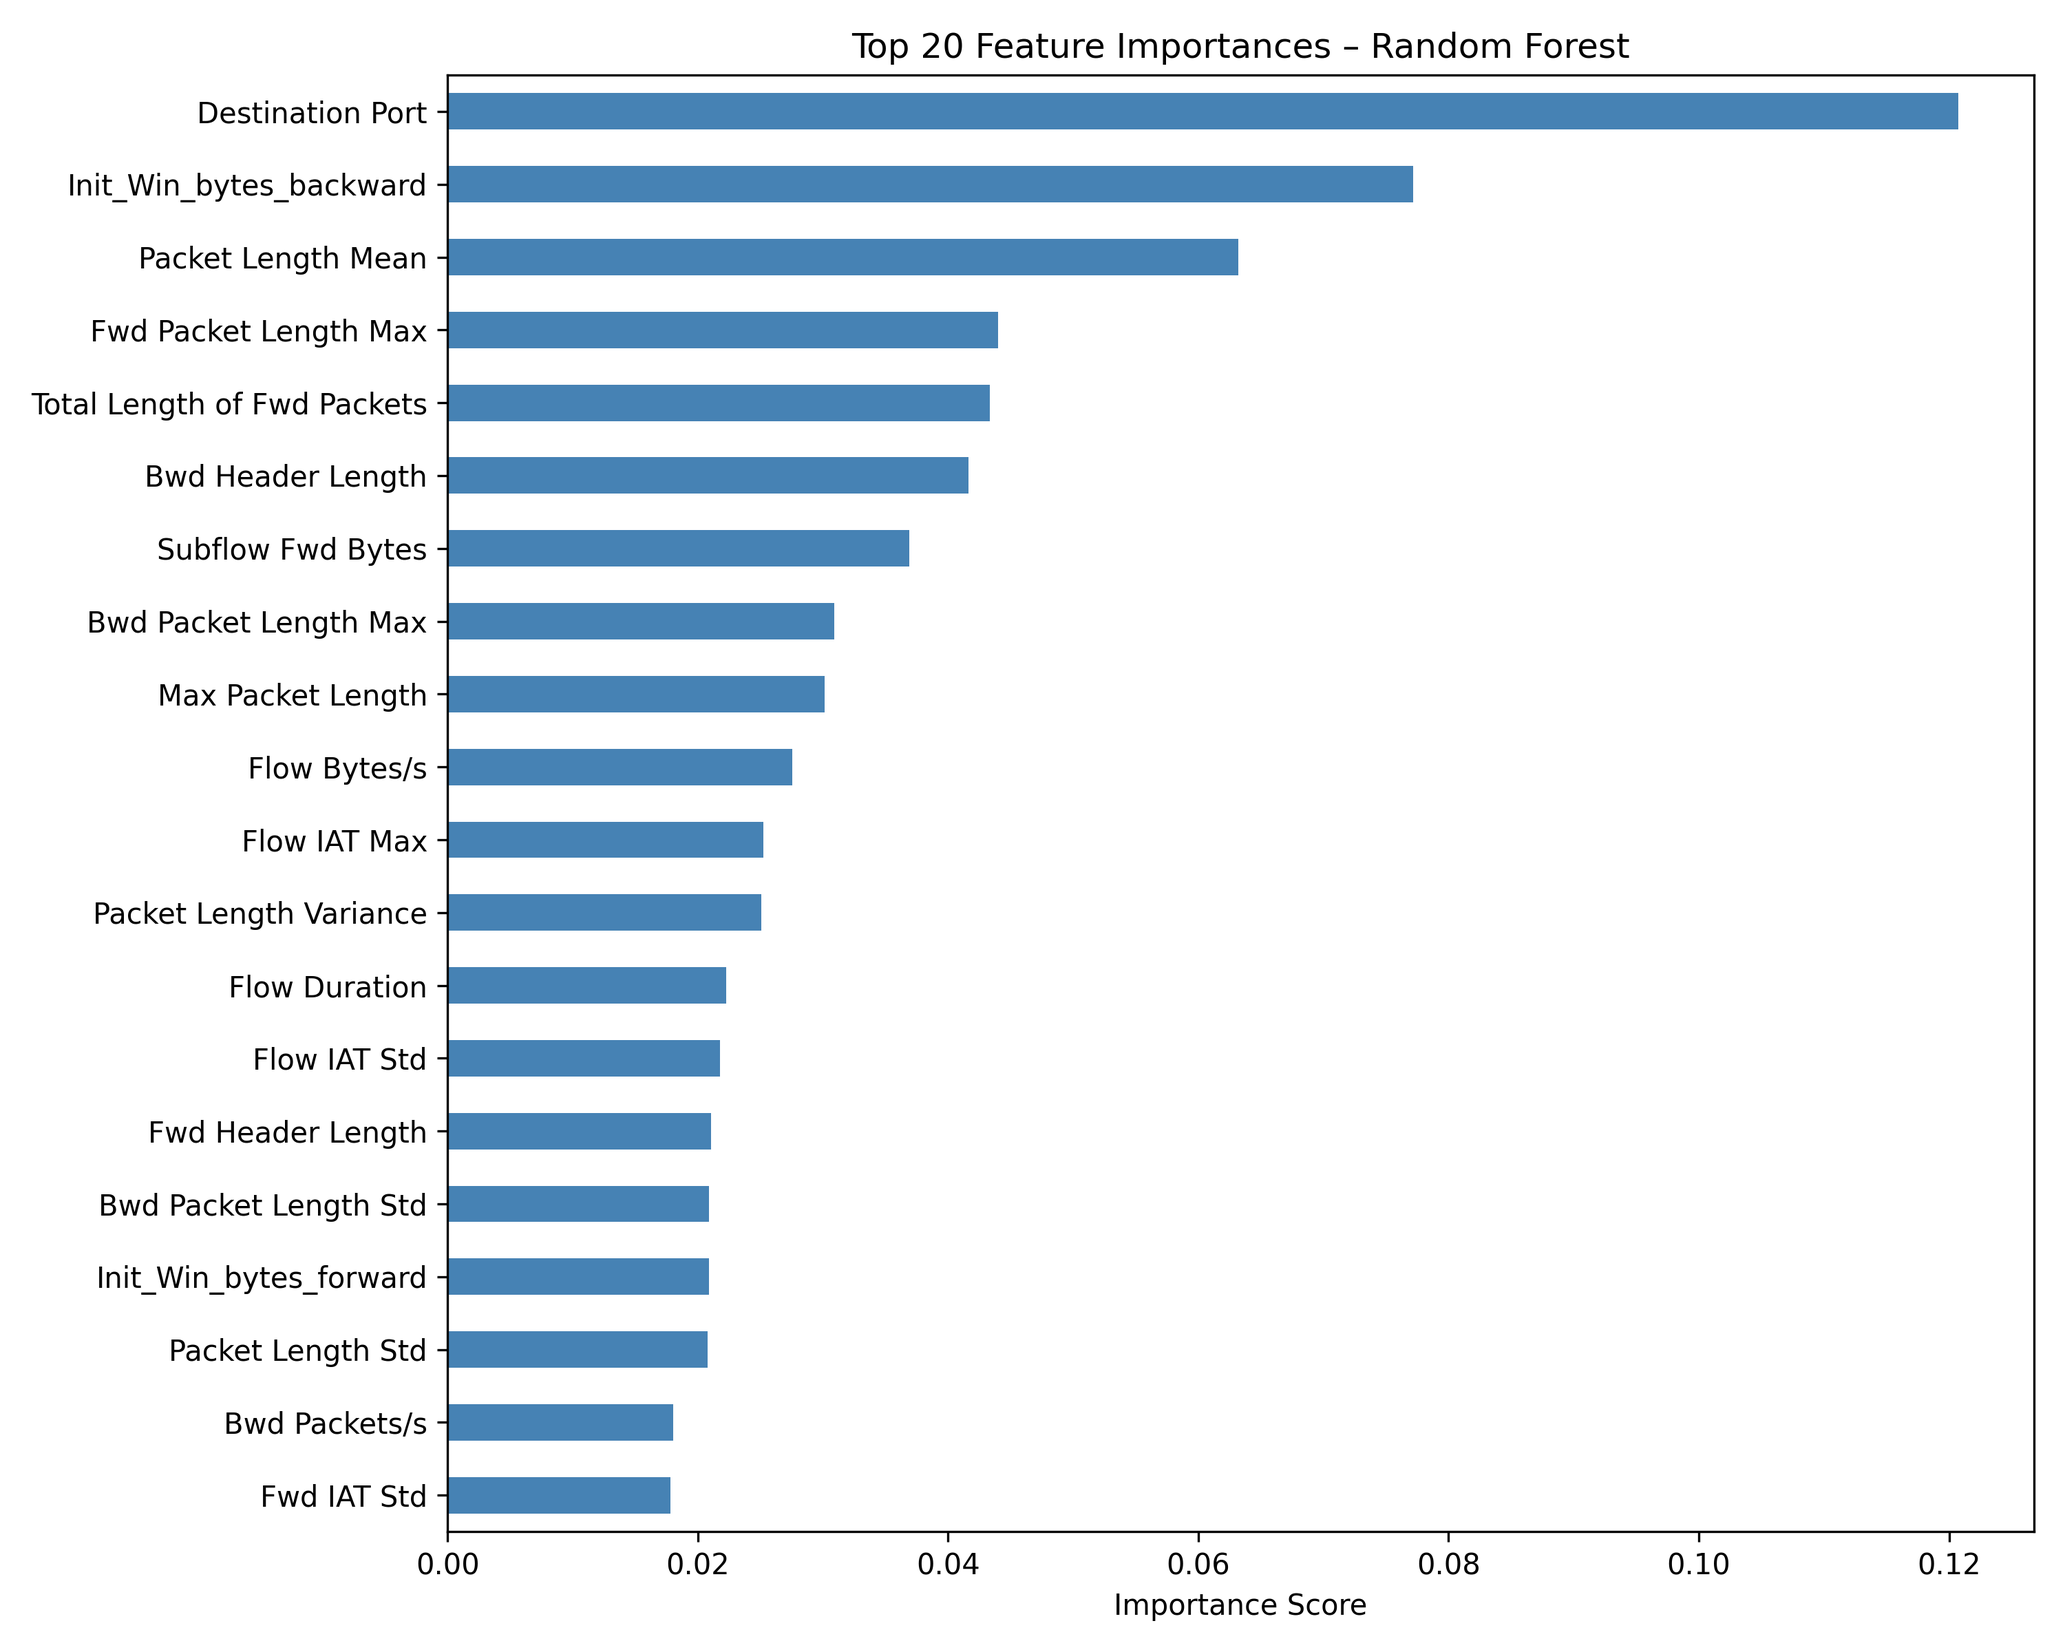
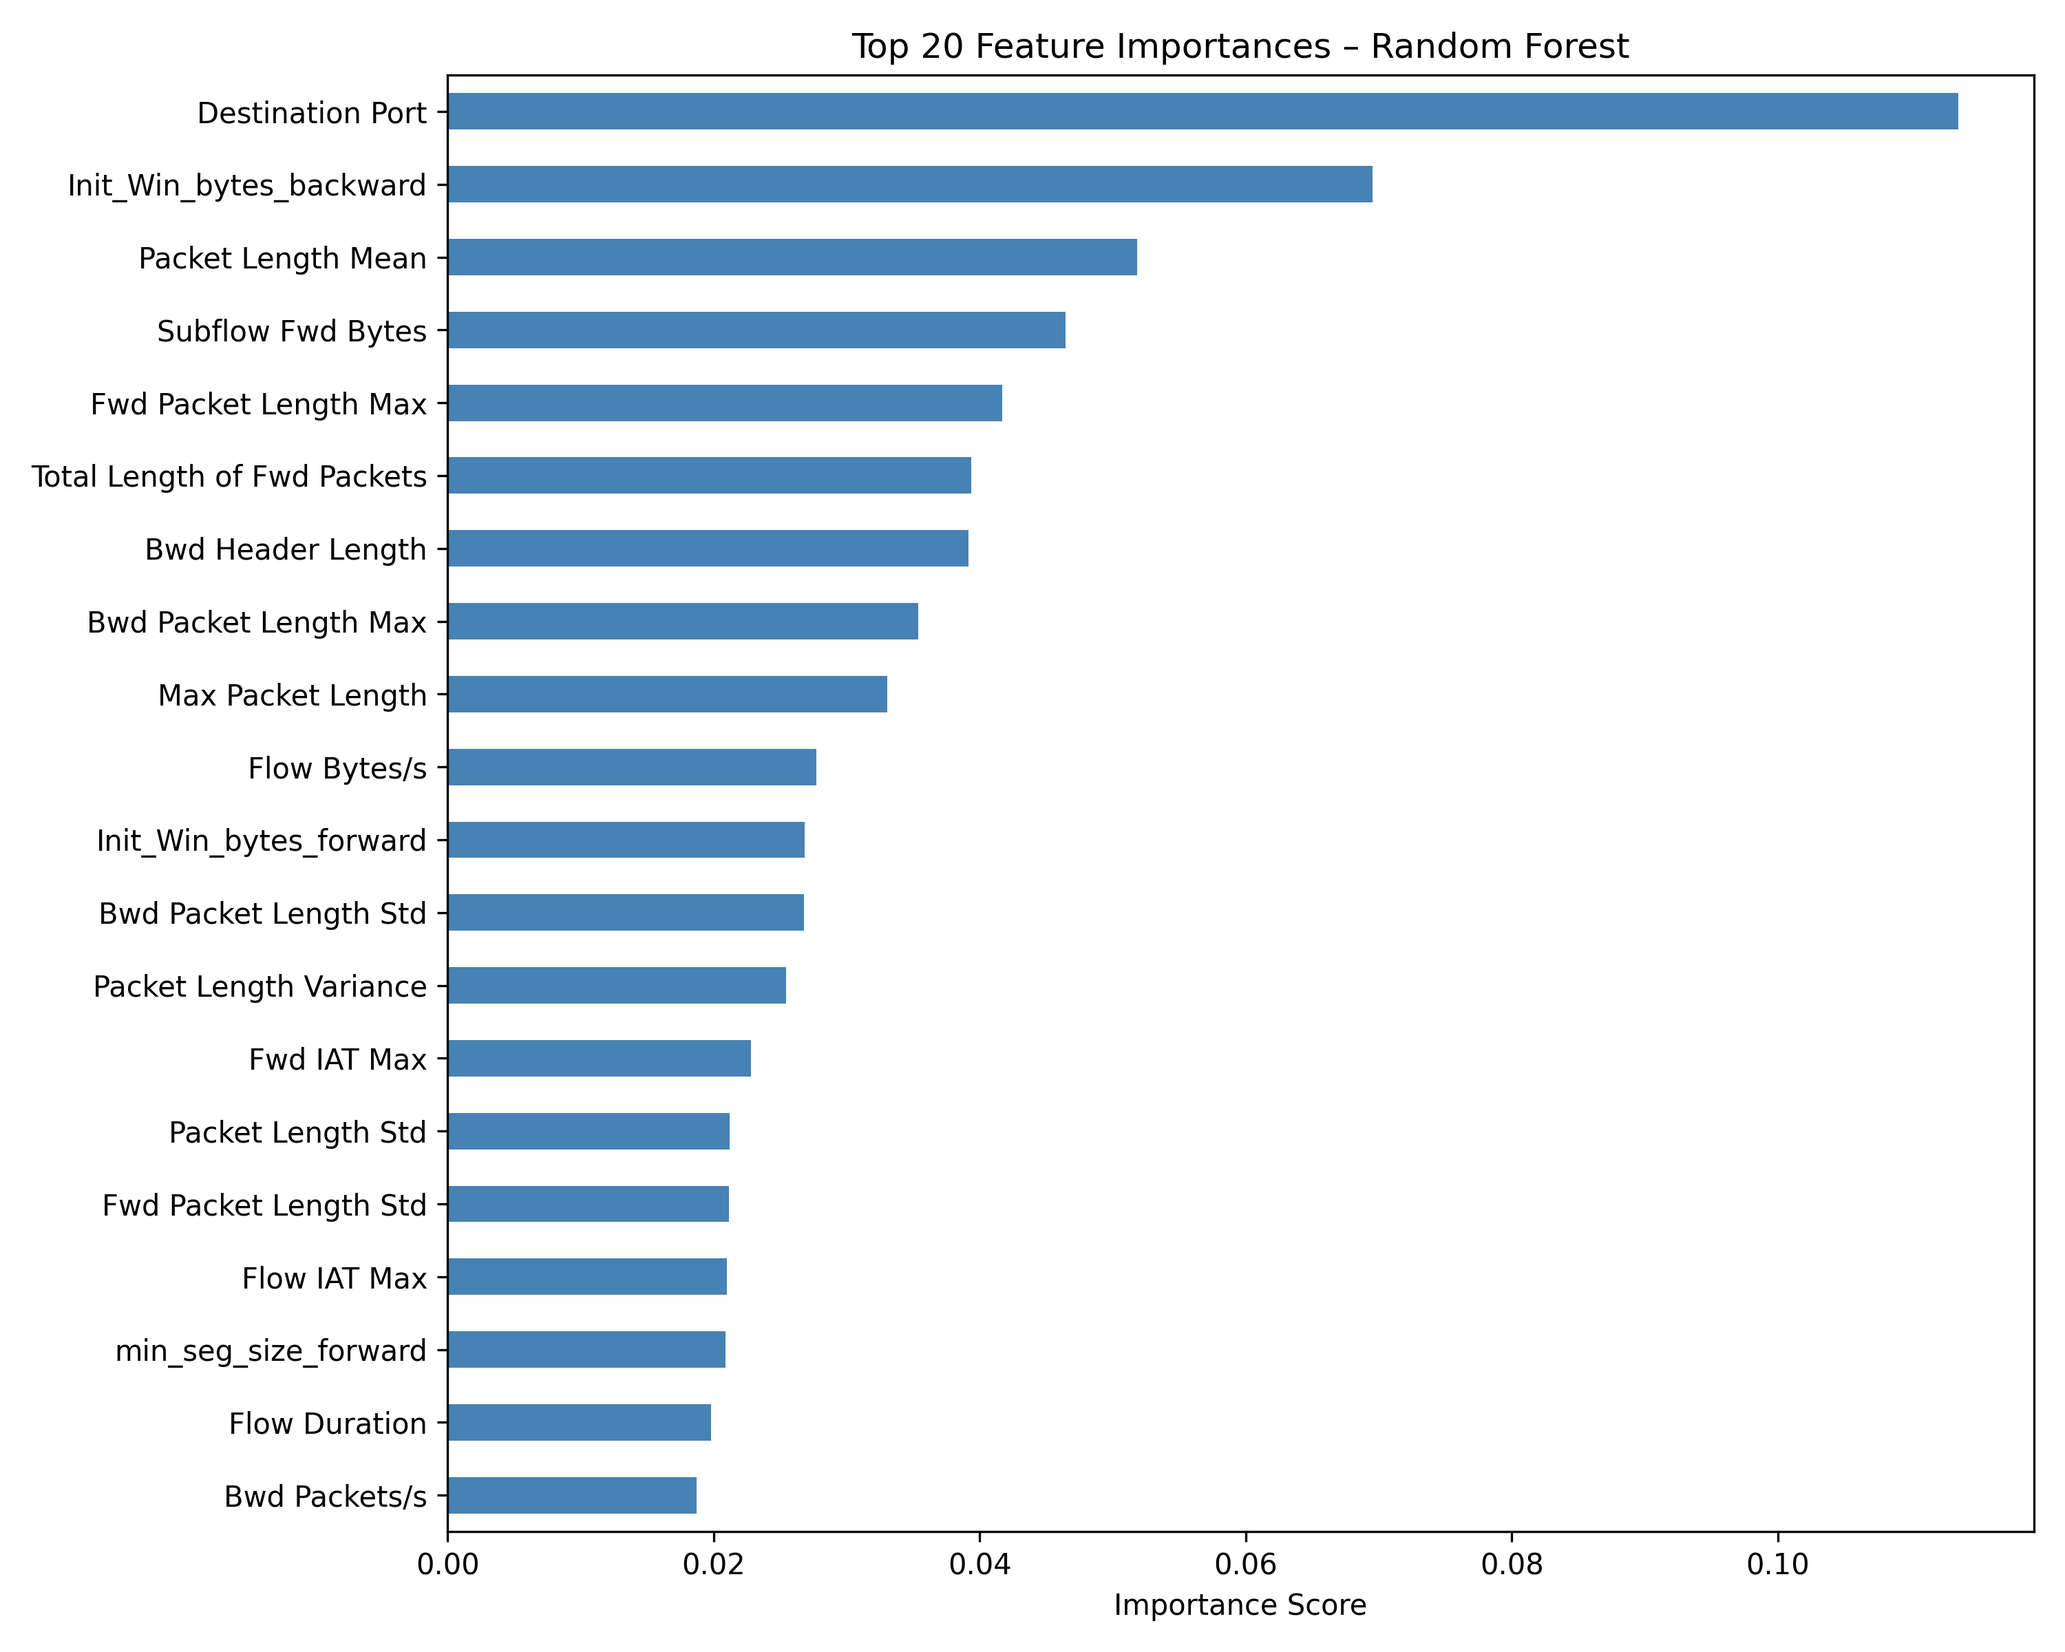
Improve model with SMOTE + hyperparameter tuning: 99.83% accuracy, F1-macro 0.95, Bots precision +76%

diff --git a/step1_eda.py b/step1_eda.py
@@ -1,0 +1,217 @@
+"""
+Step 1: Exploratory Data Analysis (EDA)
+Dataset: CICIDS2017 (cleaned)
+Mục tiêu:
+  - Hiểu phân phối dữ liệu
+  - Phát hiện inf/NaN
+  - Tìm features tương quan cao → quyết định drop
+  - Visualize phân phối label và một số feature quan trọng
+"""
+
+import pandas as pd
+import numpy as np
+import matplotlib.pyplot as plt
+import seaborn as sns
+import os
+import warnings
+warnings.filterwarnings('ignore')
+
+# ─── PATHS ─────────────────────────────────────────────────────────────────────
+DATASET_PATH = 'cicids2017_cleaned.csv'
+OUT_DIR      = 'visualizations'
+os.makedirs(OUT_DIR, exist_ok=True)
+
+# ─── 1. LOAD & OVERVIEW ────────────────────────────────────────────────────────
+print("=" * 60)
+print("1. TỔNG QUAN DỮ LIỆU")
+print("=" * 60)
+
+df = pd.read_csv(DATASET_PATH)
+print(f"   Shape       : {df.shape[0]:,} rows x {df.shape[1]} columns")
+print(f"   Memory usage: {df.memory_usage(deep=True).sum() / 1e6:.1f} MB")
+print(f"\n   Dtypes:\n{df.dtypes.value_counts().to_string()}")
+print(f"\n   Columns: {list(df.columns)}")
+
+# ─── 2. KIỂM TRA CHẤT LƯỢNG DỮ LIỆU ──────────────────────────────────────────
+print("\n" + "=" * 60)
+print("2. KIỂM TRA CHẤT LƯỢNG DỮ LIỆU")
+print("=" * 60)
+
+# 2a. Null values
+null_counts = df.isnull().sum()
+print(f"\n   Tổng null values : {null_counts.sum():,}")
+if null_counts.sum() > 0:
+    print(null_counts[null_counts > 0])
+else:
+    print("   → Không có null values.")
+
+# 2b. Inf values (phổ biến trong CICIDS2017 do chia cho flow duration = 0)
+num_cols = df.select_dtypes(include=[np.number]).columns
+inf_counts = np.isinf(df[num_cols]).sum()
+total_inf  = inf_counts.sum()
+print(f"\n   Tổng inf values  : {total_inf:,}")
+if total_inf > 0:
+    print("   Các cột có inf:")
+    print(inf_counts[inf_counts > 0].to_string())
+    print("\n   → Nguyên nhân: Flow Bytes/s = Total Bytes / Flow Duration")
+    print("     Khi Flow Duration = 0 (gói tin đến/đi gần như cùng lúc) → chia cho 0 → inf")
+    print("     Xử lý: replace inf → NaN → fillna(median)")
+else:
+    print("   → Không có inf values (đã được xử lý trong bước clean trước).")
+
+# 2c. Duplicate rows
+dup_count = df.duplicated().sum()
+print(f"\n   Duplicate rows   : {dup_count:,}")
+
+# ─── 3. PHÂN PHỐI LABEL ────────────────────────────────────────────────────────
+print("\n" + "=" * 60)
+print("3. PHÂN PHỐI NHÃN (ATTACK TYPE)")
+print("=" * 60)
+
+label_counts = df['Attack Type'].value_counts()
+label_pct    = df['Attack Type'].value_counts(normalize=True) * 100
+
+print(f"\n{'Label':<20} {'Count':>10} {'Percent':>10}")
+print("-" * 42)
+for label in label_counts.index:
+    print(f"   {label:<18} {label_counts[label]:>10,} {label_pct[label]:>9.2f}%")
+
+print(f"\n   → Dữ liệu MẤT CÂN BẰNG NẶNG:")
+print(f"     Normal Traffic chiếm {label_pct['Normal Traffic']:.1f}% tổng số mẫu.")
+print(f"     Bots chỉ có {label_counts['Bots']:,} mẫu ({label_pct['Bots']:.2f}%) — class nhỏ nhất.")
+print(f"   → Giải pháp: dùng class_weight='balanced' trong Random Forest")
+print(f"     và đánh giá bằng F1-macro thay vì accuracy đơn thuần.")
+
+# Plot label distribution
+plt.figure(figsize=(10, 5))
+colors = ['#2ecc71' if l == 'Normal Traffic' else '#e74c3c' for l in label_counts.index]
+bars = plt.bar(label_counts.index, label_counts.values, color=colors, edgecolor='white')
+plt.title('Phân Phối Nhãn trong CICIDS2017', fontsize=14, fontweight='bold')
+plt.xlabel('Attack Type')
+plt.ylabel('Số lượng mẫu')
+plt.xticks(rotation=20, ha='right')
+for bar, val in zip(bars, label_counts.values):
+    plt.text(bar.get_x() + bar.get_width()/2, bar.get_height() + 5000,
+             f'{val:,}', ha='center', va='bottom', fontsize=9)
+plt.tight_layout()
+plt.savefig(os.path.join(OUT_DIR, 'label_distribution.png'), dpi=150)
+plt.close()
+print(f"\n   Saved → visualizations/label_distribution.png")
+
+# ─── 4. THỐNG KÊ MÔ TẢ ────────────────────────────────────────────────────────
+print("\n" + "=" * 60)
+print("4. THỐNG KÊ MÔ TẢ (NUMERIC FEATURES)")
+print("=" * 60)
+
+desc = df[num_cols].describe().T
+desc['cv'] = desc['std'] / (desc['mean'].abs() + 1e-9)  # coefficient of variation
+print(desc[['mean', 'std', 'min', 'max', 'cv']].round(2).to_string())
+
+# ─── 5. CORRELATION ANALYSIS → QUYẾT ĐỊNH DROP ────────────────────────────────
+print("\n" + "=" * 60)
+print("5. PHÂN TÍCH TƯƠNG QUAN → QUYẾT ĐỊNH DROP FEATURES")
+print("=" * 60)
+
+corr_matrix = df[num_cols].corr().abs()
+
+# Tìm các cặp có tương quan cao (> 0.85), loại bỏ self-correlation
+upper_tri = corr_matrix.where(
+    np.triu(np.ones(corr_matrix.shape), k=1).astype(bool)
+)
+high_corr_pairs = (
+    upper_tri.stack()
+    .reset_index()
+    .rename(columns={'level_0': 'Feature A', 'level_1': 'Feature B', 0: 'Correlation'})
+    .query('Correlation > 0.85')
+    .sort_values('Correlation', ascending=False)
+)
+
+print(f"\n   Các cặp features có tương quan > 0.85:")
+print(f"\n{'Feature A':<30} {'Feature B':<30} {'Corr':>6}")
+print("-" * 68)
+for _, row in high_corr_pairs.iterrows():
+    print(f"   {row['Feature A']:<28} {row['Feature B']:<28} {row['Correlation']:>6.3f}")
+
+print("""
+   → Quyết định DROP chỉ 4 features có corr > 0.90 (ngưỡng "chắc chắn dư thừa"):
+     DROP 'Fwd Packet Length Mean'  → giữ 'Fwd Packet Length Max'  (corr=0.89)
+     DROP 'Bwd Packet Length Mean'  → giữ 'Bwd Packet Length Max'  (corr=0.96)
+     DROP 'Average Packet Size'     → giữ 'Packet Length Mean'     (corr=1.00, hoàn toàn trùng)
+     DROP 'Fwd IAT Mean'            → giữ 'Flow IAT Mean'          (corr=0.90)
+
+   → Tại sao KHÔNG drop thêm dù còn nhiều cặp corr > 0.85?
+     1. Random Forest kháng đa cộng tuyến: RF chọn ngẫu nhiên subset features
+        khi chia nhánh → nếu 2 cột giống nhau, nó tự chọn 1. Corr vừa phải
+        (0.7–0.85) không ảnh hưởng đáng kể đến accuracy.
+     2. Signal preservation: Trong an ninh mạng, sự khác biệt giữa Normal và
+        Attack đôi khi nằm ở sai số rất nhỏ. Drop quá nhiều có thể làm mất
+        tín hiệu phân biệt các class hiếm như Bots (0.08%) hay Web Attacks (0.09%).
+     3. Giữ Max thay vì Mean: Các giá trị cực đại (peak) phản ánh hành vi tấn
+        công rõ hơn (ví dụ bơm gói tin cực lớn trong DoS), nên ưu tiên giữ Max.
+""")
+
+# Plot correlation heatmap (chỉ lấy subset features để dễ đọc)
+selected_features = [
+    'Fwd Packet Length Max', 'Fwd Packet Length Mean',
+    'Bwd Packet Length Max', 'Bwd Packet Length Mean',
+    'Packet Length Mean', 'Average Packet Size',
+    'Flow IAT Mean', 'Fwd IAT Mean',
+    'Flow Bytes/s', 'Flow Packets/s',
+    'Flow Duration', 'Total Fwd Packets',
+]
+corr_sub = df[selected_features].corr()
+
+plt.figure(figsize=(12, 9))
+mask = np.triu(np.ones_like(corr_sub, dtype=bool))
+sns.heatmap(corr_sub, mask=mask, annot=True, fmt='.2f', cmap='coolwarm',
+            center=0, linewidths=0.5, annot_kws={'size': 8})
+plt.title('Correlation Matrix – Selected Features\n(Cơ sở để quyết định drop features thừa)',
+          fontsize=12, fontweight='bold')
+plt.tight_layout()
+plt.savefig(os.path.join(OUT_DIR, 'correlation_matrix.png'), dpi=150)
+plt.close()
+print(f"   Saved → visualizations/correlation_matrix.png")
+
+# ─── 6. PHÂN PHỐI FLOW DURATION THEO ATTACK TYPE ──────────────────────────────
+print("\n" + "=" * 60)
+print("6. PHÂN PHỐI FLOW DURATION THEO ATTACK TYPE")
+print("=" * 60)
+
+# Log scale vì Flow Duration có outlier rất lớn
+df_plot = df.copy()
+df_plot['Flow Duration (log)'] = np.log1p(df_plot['Flow Duration'])
+
+plt.figure(figsize=(12, 6))
+order = df['Attack Type'].value_counts().index
+sns.boxplot(data=df_plot, x='Attack Type', y='Flow Duration (log)',
+            order=order, palette='Set2')
+plt.title('Phân Phối Flow Duration theo Attack Type (log scale)', fontsize=13, fontweight='bold')
+plt.xlabel('Attack Type')
+plt.ylabel('log(1 + Flow Duration)')
+plt.xticks(rotation=20, ha='right')
+plt.tight_layout()
+plt.savefig(os.path.join(OUT_DIR, 'flow_duration_boxplot.png'), dpi=150)
+plt.close()
+print(f"   DoS/DDoS thường có flow duration ngắn (tấn công nhanh, nhiều gói).")
+print(f"   Normal Traffic có phân phối rộng hơn.")
+print(f"   Saved → visualizations/flow_duration_boxplot.png")
+
+# ─── 7. TÓM TẮT KẾT QUẢ EDA ───────────────────────────────────────────────────
+print("\n" + "=" * 60)
+print("7. TÓM TẮT KẾT QUẢ EDA")
+print("=" * 60)
+print(f"""
+   Dataset : {df.shape[0]:,} mẫu, {df.shape[1]} cột (52 features + 1 label)
+   Classes : 7 loại (Normal + 6 loại tấn công)
+   
+   Vấn đề phát hiện:
+   ├── Mất cân bằng nặng: Normal chiếm 83.1%, Bots chỉ 0.08%
+   └── 4 features thừa (tương quan > 0.90 với feature khác)
+   
+   Hành động cho Step 2:
+   ├── Drop 4 redundant features
+   ├── Dùng stratify=y khi split để giữ tỉ lệ class
+   └── Dùng class_weight='balanced' trong Random Forest
+""")
+
+print("✅ EDA hoàn tất!")

diff --git a/step2_preprocess_train.py b/step2_preprocess_train.py
@@ -13,6 +13,7 @@ from sklearn.preprocessing import LabelEncoder, StandardScaler
 from sklearn.ensemble import RandomForestClassifier
 from sklearn.metrics import (classification_report, confusion_matrix,
                              accuracy_score, f1_score)
+from imblearn.over_sampling import SMOTE
 import matplotlib.pyplot as plt
 import seaborn as sns
 import warnings
@@ -52,16 +53,7 @@ df.drop(columns=REDUNDANT_COLS, inplace=True)
 print(f"   Dropped redundant columns: {REDUNDANT_COLS}")
 print(f"   Remaining feature count: {df.shape[1] - 1}")  # -1 for label
 
-# 2b. Handle inf / NaN (can appear in rate-based features like Flow Bytes/s)
-num_inf  = np.isinf(df.select_dtypes(include=[np.number])).sum().sum()
-num_null = df.isnull().sum().sum()
-print(f"\n   Inf values  : {num_inf:,}")
-print(f"   Null values : {num_null:,}")
-df.replace([np.inf, -np.inf], np.nan, inplace=True)
-df.fillna(df.median(numeric_only=True), inplace=True)
-print("   → Replaced Inf with NaN, filled NaN with column median.")
-
-# 2c. Encode label
+# 2b. Encode label
 TARGET = 'Attack Type'
 le = LabelEncoder()
 df['label_encoded'] = le.fit_transform(df[TARGET])
@@ -89,7 +81,37 @@ X_val_s   = scaler.transform(X_val)
 X_test_s  = scaler.transform(X_test)
 print("\n   Features scaled with StandardScaler (fit on train only).")
 
-# 2g. Save scaler & encoder for later use
+# 2g. Apply SMOTE to balance minority classes (especially Bots)
+print("\n" + "="*60)
+print("2g. APPLYING SMOTE (Synthetic Minority Over-sampling)")
+print("="*60)
+
+# Check class distribution before SMOTE
+train_dist_before = pd.Series(y_train).value_counts().sort_index()
+print("\n   Class distribution BEFORE SMOTE:")
+for class_idx, count in train_dist_before.items():
+    print(f"     {le.classes_[class_idx]:<18} : {count:>8,} samples")
+
+# Apply SMOTE - oversample minority classes moderately
+# Strategy: tăng Bots và Web Attacks lên 3x (không quá nhiều để tránh overfitting)
+sampling_strategy = {
+    0: 4000,  # Bots: 1364 → 4000
+    6: 4500,  # Web Attacks: 1500 → 4500
+}
+
+smote = SMOTE(sampling_strategy=sampling_strategy, random_state=42, k_neighbors=3)
+X_train_s, y_train = smote.fit_resample(X_train_s, y_train)
+
+train_dist_after = pd.Series(y_train).value_counts().sort_index()
+print("\n   Class distribution AFTER SMOTE:")
+for class_idx, count in train_dist_after.items():
+    print(f"     {le.classes_[class_idx]:<18} : {count:>8,} samples")
+
+print(f"\n   Total training samples: {len(y_train):,}")
+print("   → SMOTE tạo synthetic samples cho Bots và Web Attacks")
+print("   → Giúp model học tốt hơn pattern của các class hiếm")
+
+# 2h. Save scaler & encoder for later use
 joblib.dump(scaler, os.path.join(MODEL_DIR, 'scaler.pkl'))
 joblib.dump(le,     os.path.join(MODEL_DIR, 'label_encoder.pkl'))
 print("   Saved scaler.pkl and label_encoder.pkl")
@@ -100,8 +122,9 @@ print("3. TRAINING BASELINE MODEL (Random Forest + class_weight='balanced')")
 print("="*60)
 
 rf = RandomForestClassifier(
-    n_estimators=100,
-    max_depth=20,
+    n_estimators=150,
+    max_depth=25,
+    min_samples_split=5,
     class_weight='balanced',   # handles imbalance
     n_jobs=-1,
     random_state=42,
